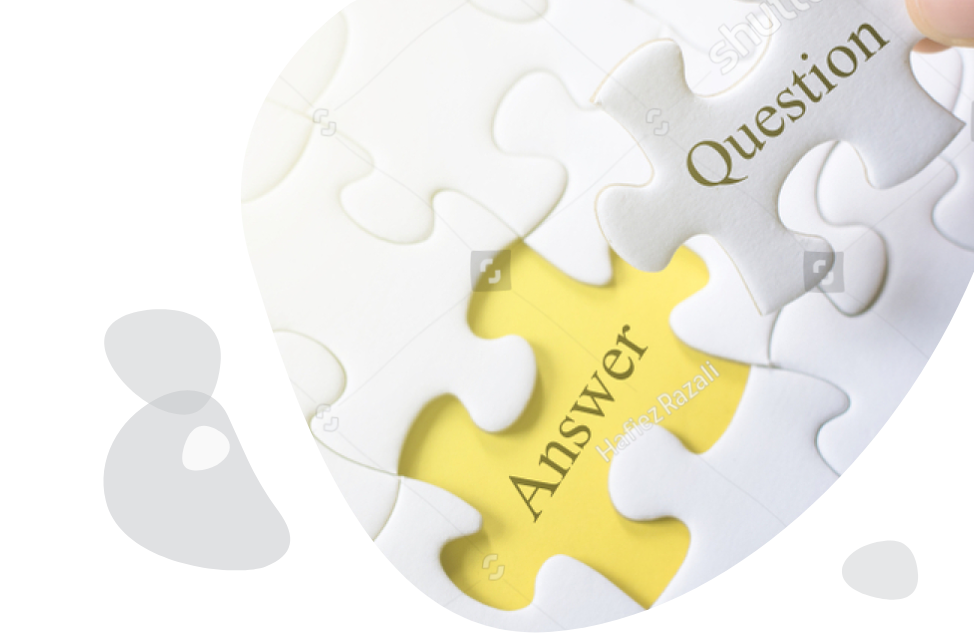
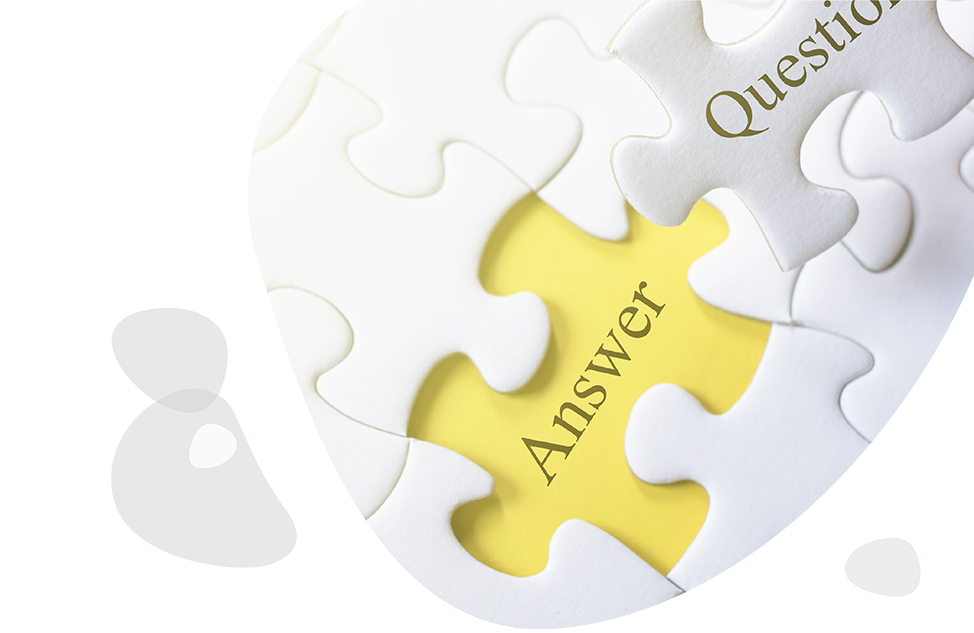
FAQ png + собачки

diff --git a/style.css b/style.css
@@ -1307,7 +1307,7 @@ h2 {
     background-size: contain;
     background-position: top right; }
     #header .middle-decor-elem.middle-decor-elem__FAQ {
-      background-image: url(img/FAQ-decor-elem.png); }
+      background-image: url(img/FAQ-decor-elem.jpg); }
     #header .middle-decor-elem.middle-decor-elem__reviews {
       background-image: url(img/reviews-decor-elem.png); }
     #header .middle-decor-elem.middle-decor-elem__pd {
@@ -2558,7 +2558,14 @@ textarea::-webkit-input-placeholder { color: #1A1818; }
     left: 0; } }
 @media screen and (max-width: 1385px) {
   .catalog__item__wr {
-    width: 33.33333%; } }
+    width: 33.33333%; } 
+  
+    .feedback .feedback__decor.feedback__decor__pets {
+      right: 51.5%;
+    }
+
+}
+
 @media screen and (max-width: 1300px) {
   .nav-panel .main-menu {
     width: 55%;
@@ -2587,13 +2594,21 @@ textarea::-webkit-input-placeholder { color: #1A1818; }
     .contacts-elem .phone-box {
       padding: 0 25px 0 67px;
     }
+
+    .feedback__decor__pets .spacer {
+      width:94%;
+    }
+
+    .feedback .feedback__decor.feedback__decor__pets {
+      right: 51%;
+    }
   }
 @media screen and (max-width: 1290px) {
-  .feedback .feedback__decor.feedback__decor__pets {
+  /* .feedback .feedback__decor.feedback__decor__pets {
     top: 14%;
     right: 59%;
     height: 120%;
-    width: 53%; } }
+    width: 53%; } } */
 @media screen and (max-width: 1250px) {
   .subfooter {
     display: none; }
